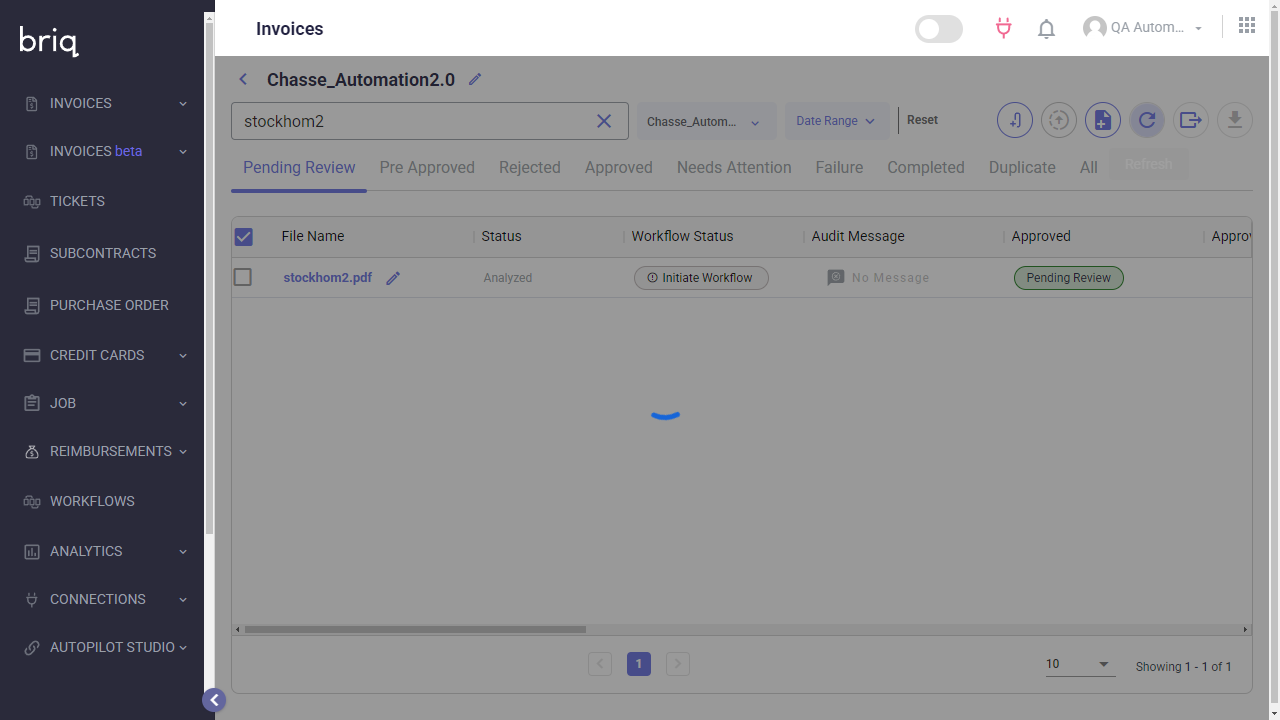
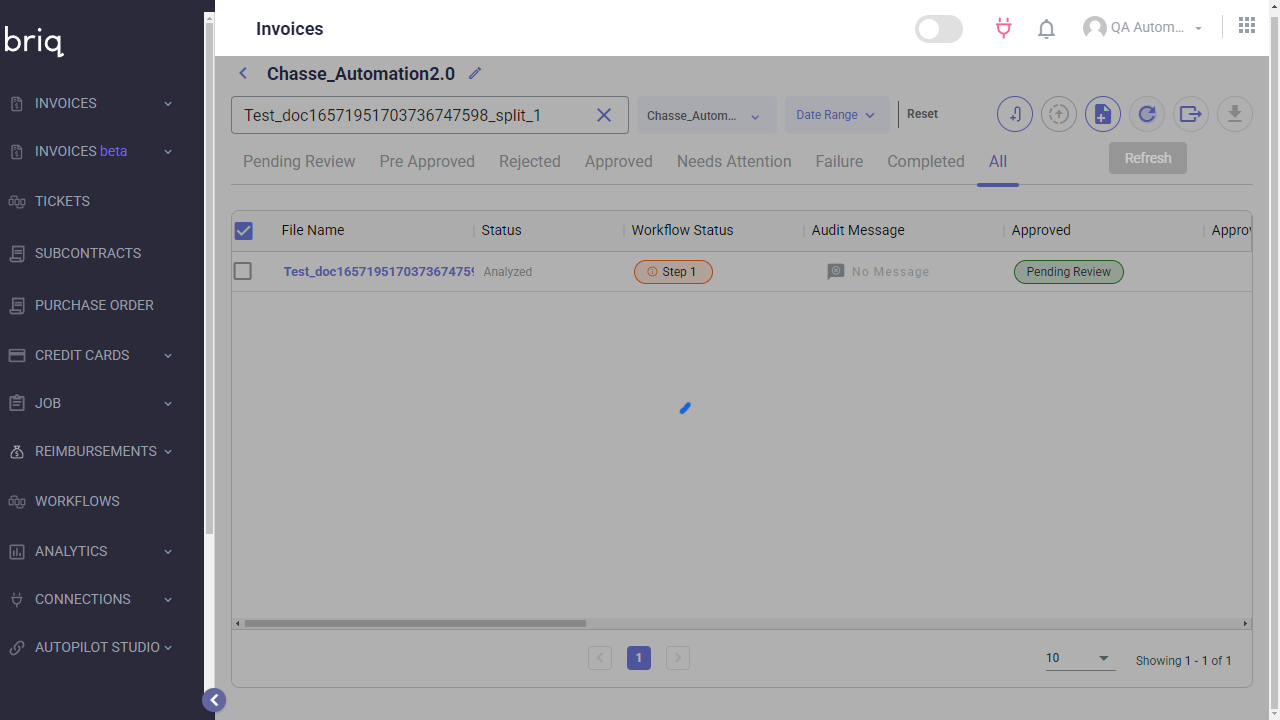
new changes

diff --git a/tests/InvoiceCreatNewfolder.spec.js b/tests/InvoiceCreatNewfolder.spec.js
@@ -5,7 +5,7 @@ import fs from 'fs';
 import { exit } from 'process';
 const { test, expect, request } = require('@playwright/test');
 // const { chromium } = require('playwright');
-const { fetchInvoiceLineItemFields,login,getGridColumnTextsByindex, checkDateInRange, getMonthInMmmFormat, waitForElementToVisible, getFullMonthName, createMapOfMap,createArrayOfMap, uploadInvoice, waitForAnalyzedSatatus, verifyAnalyzedSatatus , readPDF,getInvoiceNo, getInvoiceDate, getPaymentDueDate, getSubtotal, getTax, getTotalAmount, getformattedDate, getDescription, getPDFValWith1Regx, getNoOfItems, takeScreenShot, deleteAttachments,getRandomValue,getRandomValuesAsPerDataType,fetchInvoices } = require('./Methods/common');
+const { fetchInvoiceLineItemFields,login,getGridColumnTextsByindex, checkDateInRange, getMonthInMmmFormat, waitForElementToVisible, getFullMonthName, createMapOfMap,createArrayOfMap, uploadInvoice, waitForAnalyzedSatatus, verifyAnalyzedSatatus , readPDF,getInvoiceNo, getInvoiceDate, getPaymentDueDate, getSubtotal, getTax, getTotalAmount, getformattedDate, getDescription, getPDFValWith1Regx, getNoOfItems, takeScreenShot, deleteAttachments,getRandomValue,getRandomValuesAsPerDataType,fetchInvoices,deleteInvoice } = require('./Methods/common');
 // const { error, Console } = require('console');
 
 // let browser,page;
@@ -3104,13 +3104,33 @@ test.only('25. Verify Default Allocation for vendor on invoice allocation screen
 
 test.only('26. Verify Add New Vendor, assign new vendor to uploaded invoice, upload another invoice with same vendor and verify if vendor get assigned', async({ page })=>{
   const folderName = testData.get('26').get('FolderName');
+  const fileName = testData.get('26').get('FilesToUpload');
   await page.waitForTimeout(12000);
 
-  await page.getByRole('link', { name: 'Invoices' }).click();
+  // await page.getByRole('link', { name: 'Invoices' }).click();
   await page.getByRole('link', { name: 'Vendors' }).click();
+
+  //Delete vendor if already present
+  await page.getByPlaceholder('Search').click();
+  await page.getByPlaceholder('Search').fill("newTestVendor");
+  const vtblrows  = await page.locator('table tbody tr');
+  let vtblrowsCount = await vtblrows.count();
+  for (let i = 0; i < vtblrowsCount; i++) {
+    const row = vtblrows.nth(i);
+    await row.hover();
+    // Optionally wait a bit to see the hover effect
+    await page.waitForTimeout(300); 
+    const button = page.locator('button:has(i.mdi-delete-outline)');
+    await button.waitFor({ state: 'visible' });
+    await button.click();
+    await page.getByRole('button', { name: 'Yes, Delete' }).click();
+
+  }
+
   await page.getByRole('button', { name: 'Add Vendor' }).click();
   let vendorCode = getRandomValuesAsPerDataType("number").toString();
   let vendorName = 'newTestVendor'+vendorCode;
+  console.log("New vendor name= "+vendorName);
   // vendorName = "newTestVendor330";
   await page.locator("//label[text()='Name ']/..//input").fill(vendorName);
   await page.locator("//label[text()='Vendor Code ']/..//input").fill(vendorCode);
@@ -3127,23 +3147,20 @@ test.only('26. Verify Add New Vendor, assign new vendor to uploaded invoice, upl
   console.log("vrows = "+vrowcnt);
   expect(vrowcnt).toBe(1);
 
-  let fileToUpload = "stockhom2.pdf";
+  
   await page.click("//div[text()='Invoices ']");
   await page.getByLabel('Search card').fill(folderName);
   await page.locator("//strong[normalize-space()='"+folderName+"']").click();
-  await page.waitForTimeout(12000);
+  await page.waitForTimeout(10000);
+  await page.getByRole('button', { name: 'All' }).click();
+  await page.waitForTimeout(10000);
 
   //Delete invoice if already present 
-  await page.getByPlaceholder('Search card').fill(fileToUpload.replace(".pdf",""));
-  await page.getByPlaceholder('Search card').press('Enter');
-  await page.waitForTimeout(1000);
-  await page.locator("//input[@role='checkbox']").click();
-  await page.getByRole('button', { name: 'Delete' }).click();
-  await page.getByRole('button', { name: 'Yes, delete file' }).click();
+  await deleteInvoice(page,fileName);
 
-  uploadInvoice(page,'./FilesToUpload/'+fileToUpload);
+  uploadInvoice(page,'./FilesToUpload/'+fileName);
   await page.waitForTimeout(120000);
-  await waitForAnalyzedSatatus(page,fileToUpload);
+  await waitForAnalyzedSatatus(page,fileName);
  
   //temp
   // await page.getByPlaceholder('Search card').fill(fileToUpload);
@@ -3157,7 +3174,7 @@ test.only('26. Verify Add New Vendor, assign new vendor to uploaded invoice, upl
   console.log("statues="+statues);
   console.log("fileNames="+fileNames);
   await rows.nth(0).click();
-  await page.waitForTimeout(12000);
+  await page.waitForTimeout(1000);
   // if(await page.getByRole('button', { name: 'Change vendor' }).isVisible()){
     await page.getByRole('button', { name: 'Change vendor' }).click();
   // }
@@ -3178,9 +3195,9 @@ test.only('26. Verify Add New Vendor, assign new vendor to uploaded invoice, upl
     const checkbox = await page.locator('(//div[contains(@class, "mdl-container")]//div[contains(@class, "v-input__slot")]//input[@role="checkbox"])['+i+']');
     const isChecked = await checkbox.isChecked();
     if (isChecked) {
-      console.log('✅ Checkbox is already checked');
+      // console.log('✅ Checkbox is already checked');
     } else {
-      console.log('❌ Checkbox is NOT checked');
+      // console.log('❌ Checkbox is NOT checked');
       await page.locator('(//div[contains(@class, "mdl-container")]//div[contains(@class, "v-input__slot")]//input[@role="checkbox"])['+i+']').click({ force: true });
     }
     // console.log("chk text= "+await page.locator('(//div[contains(@class, "mdl-container")]//div[contains(@class, "v-input__slot")]//label)['+i+']').innerText());
@@ -3196,6 +3213,7 @@ test.only('26. Verify Add New Vendor, assign new vendor to uploaded invoice, upl
   await page.locator('.buttons').click();
   await page.waitForTimeout(1000);
 
+  //Validations
   await page.click("//div[text()='Invoices']");
   await page.getByRole('link', { name: 'Vendors' }).click();
   await page.waitForTimeout(1000);
@@ -3211,7 +3229,7 @@ test.only('26. Verify Add New Vendor, assign new vendor to uploaded invoice, upl
   await page.waitForTimeout(1200);
   const irrows = await page.locator("//div[@class='v-window-item v-window-item--active']//table//tbody//tr");
   const rowCount = await irrows.count();
-  console.log("rowCount== "+rowCount);
+  // console.log("rowCount== "+rowCount);
   const expectedArray = [];
   for (let i = 0; i < rowCount; i++) {
     const row = irrows.nth(i);
@@ -3223,13 +3241,38 @@ test.only('26. Verify Add New Vendor, assign new vendor to uploaded invoice, upl
     expectedArray.push(firstCellText.trim()+": "+secondCellText.trim());
   
   }
-  console.log("-------------------------------------");
-  console.log(actualArray);
-  console.log(expectedArray);
-  for (const item of actualArray) {
-    console.log("item-- "+item);
-    expect(expectedArray).toContain(item); // Will fail if item is missing from array2
-  }
+  // console.log("-------------------------------------");
+  // console.log(actualArray);
+  // console.log(expectedArray);
+  // for (const item of actualArray) {
+  //   console.log("item-- "+item);
+  //   expect(expectedArray).toContain(item); // Will fail if item is missing from array2
+  // }
+
+  //Uploading another file with same vendor and verify vendor name
+  await page.locator('div').filter({ hasText: /^Edit Vendor$/ }).getByRole('button').click();
+  await page.getByRole('link', { name: 'Invoices' }).click();
+  await page.getByLabel('Search card').fill(folderName);
+  await page.locator("//strong[normalize-space()='"+folderName+"']").click();
+  await page.waitForTimeout(1000);
+  await page.getByRole('button', { name: 'All' }).click();
+  await page.waitForTimeout(10000);
+  //Delete invoice if already present 
+  let fileNam2 = "Test_doc16571951703736747598_split_1.pdf";
+  await deleteInvoice(page,fileNam2);
+
+  uploadInvoice(page,'./FilesToUpload/'+fileNam2);
+  await page.waitForTimeout(10000);
+  await waitForAnalyzedSatatus(page,fileNam2);
+
+  let rows1 = await page.locator('//div[@ref="eCenterContainer"] //div[@role="row"]');
+  await rows1.nth(0).click();
+
+  let actualVendorName = await page.locator('div[column_name="Vendor__standard"] h5').innerText();
+  console.log("actualVendorName="+actualVendorName);
+  console.log("expectedVendorName="+vendorName+" - "+vendorCode);
+  expect(actualVendorName.trim()).toBe(vendorName+" - "+vendorCode);
+
 });
 
 

diff --git a/tests/Methods/common.js b/tests/Methods/common.js
@@ -25,7 +25,7 @@ module.exports = {
                   await page.fill('input#login-page-email-input', loginDetails[0]);  // username
                   await page.fill('input#login-page-password-input', loginDetails[1]); //password
                   await page.click('button.login-button');  //login button selector
-                  test.setTimeout(450_000);
+                  test.setTimeout(600_000);
     } catch (error) {
       console.error('Login failed:', error);
       throw error;
@@ -232,7 +232,7 @@ module.exports = {
       // await page.getByRole('button', { name: 'Refresh' }).click();
       await page.locator('button:nth-child(8)').first().click();
       // if(await waitForElementToVisible(page,"//input[@id='headerChk']")){
-        console.log("in while status=== "+await page.getByRole('gridcell', { name: 'Analyzed' }).first().isVisible());
+        // console.log("in while status=== "+await page.getByRole('gridcell', { name: 'Analyzed' }).first().isVisible());
         isAnalyzed = await page.getByRole('gridcell', { name: 'Analyzed' }).first().isVisible();
       // }
     
@@ -485,6 +485,20 @@ deleteAttachments: async function(page,noOfItems){
     await page.getByRole('button', { name: '罹' }).first().click();
     await page.getByRole('button', { name: 'DELETE', exact: true }).click();
     await page.waitForTimeout(1800);
+  }
+},
+
+deleteInvoice: async function(page,fileName){
+  await page.getByPlaceholder('Search card').fill(fileName.replace(".pdf",""));
+  await page.getByPlaceholder('Search card').press('Enter');
+  await page.waitForTimeout(1000);
+  let rows = await page.locator('//div[@ref="eCenterContainer"] //div[@role="row"]');
+  let rowcnt = await rows.count();
+  console.log("rowcnt==="+rowcnt);
+  if(rowcnt > 0){
+  await page.locator("//input[@role='checkbox']").click();
+  await page.getByRole('button', { name: 'Delete' }).click();
+  await page.getByRole('button', { name: 'Yes, delete file' }).click();
   }
 },
 
